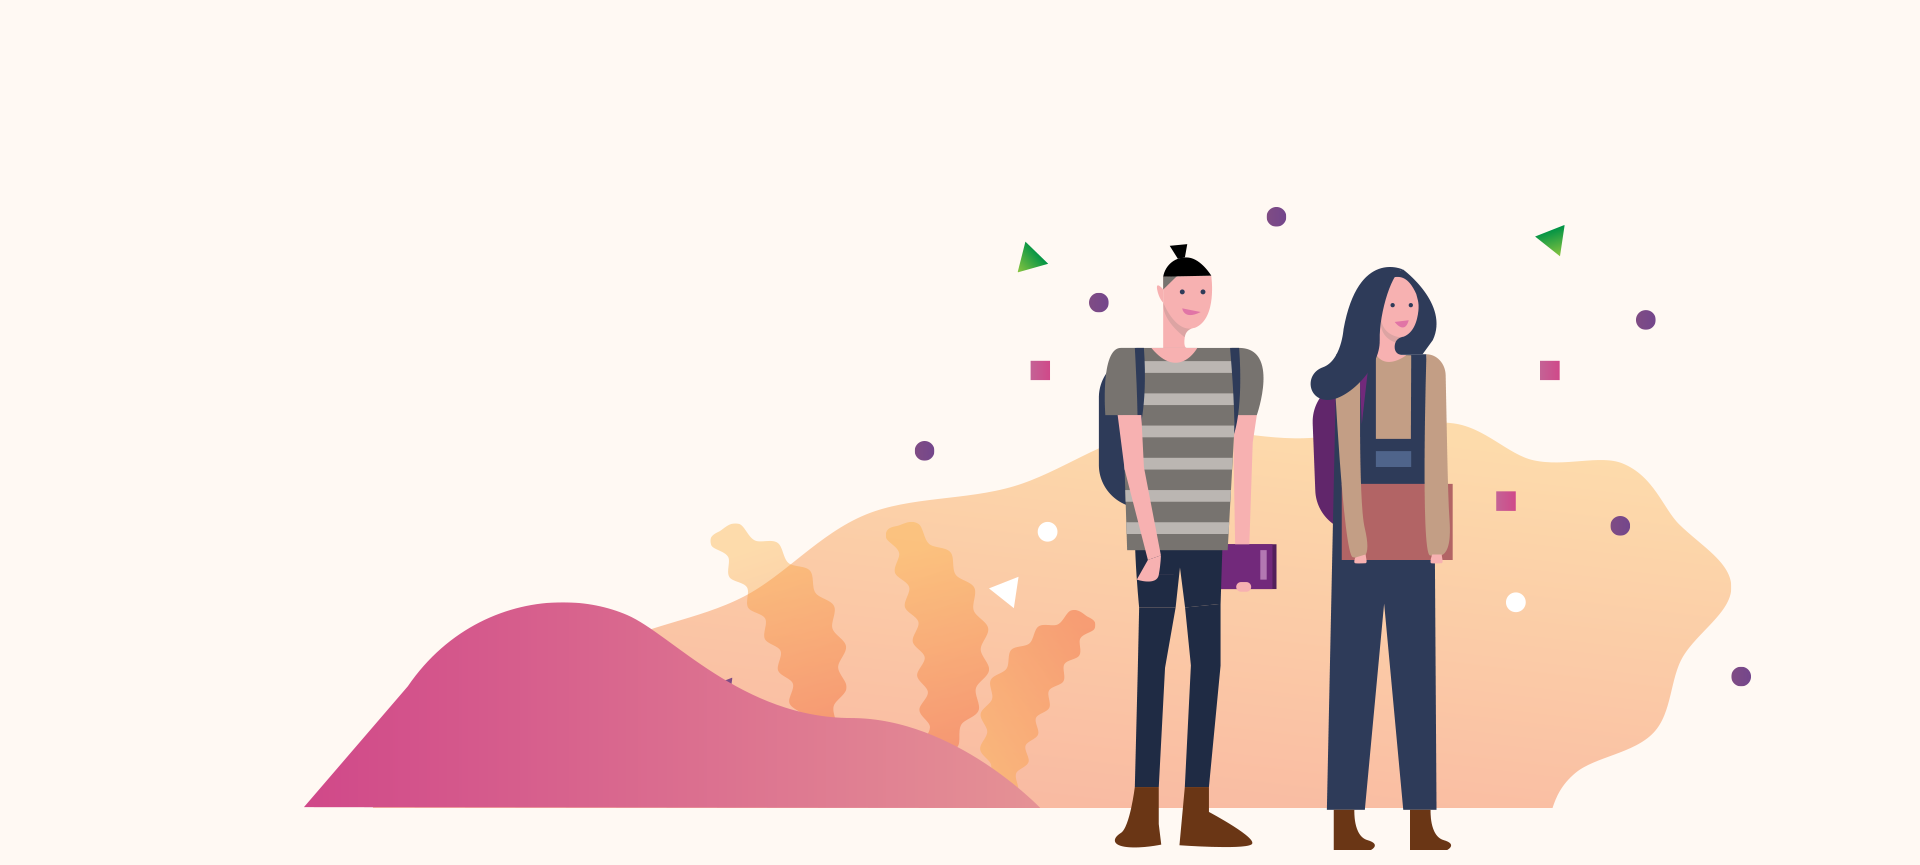
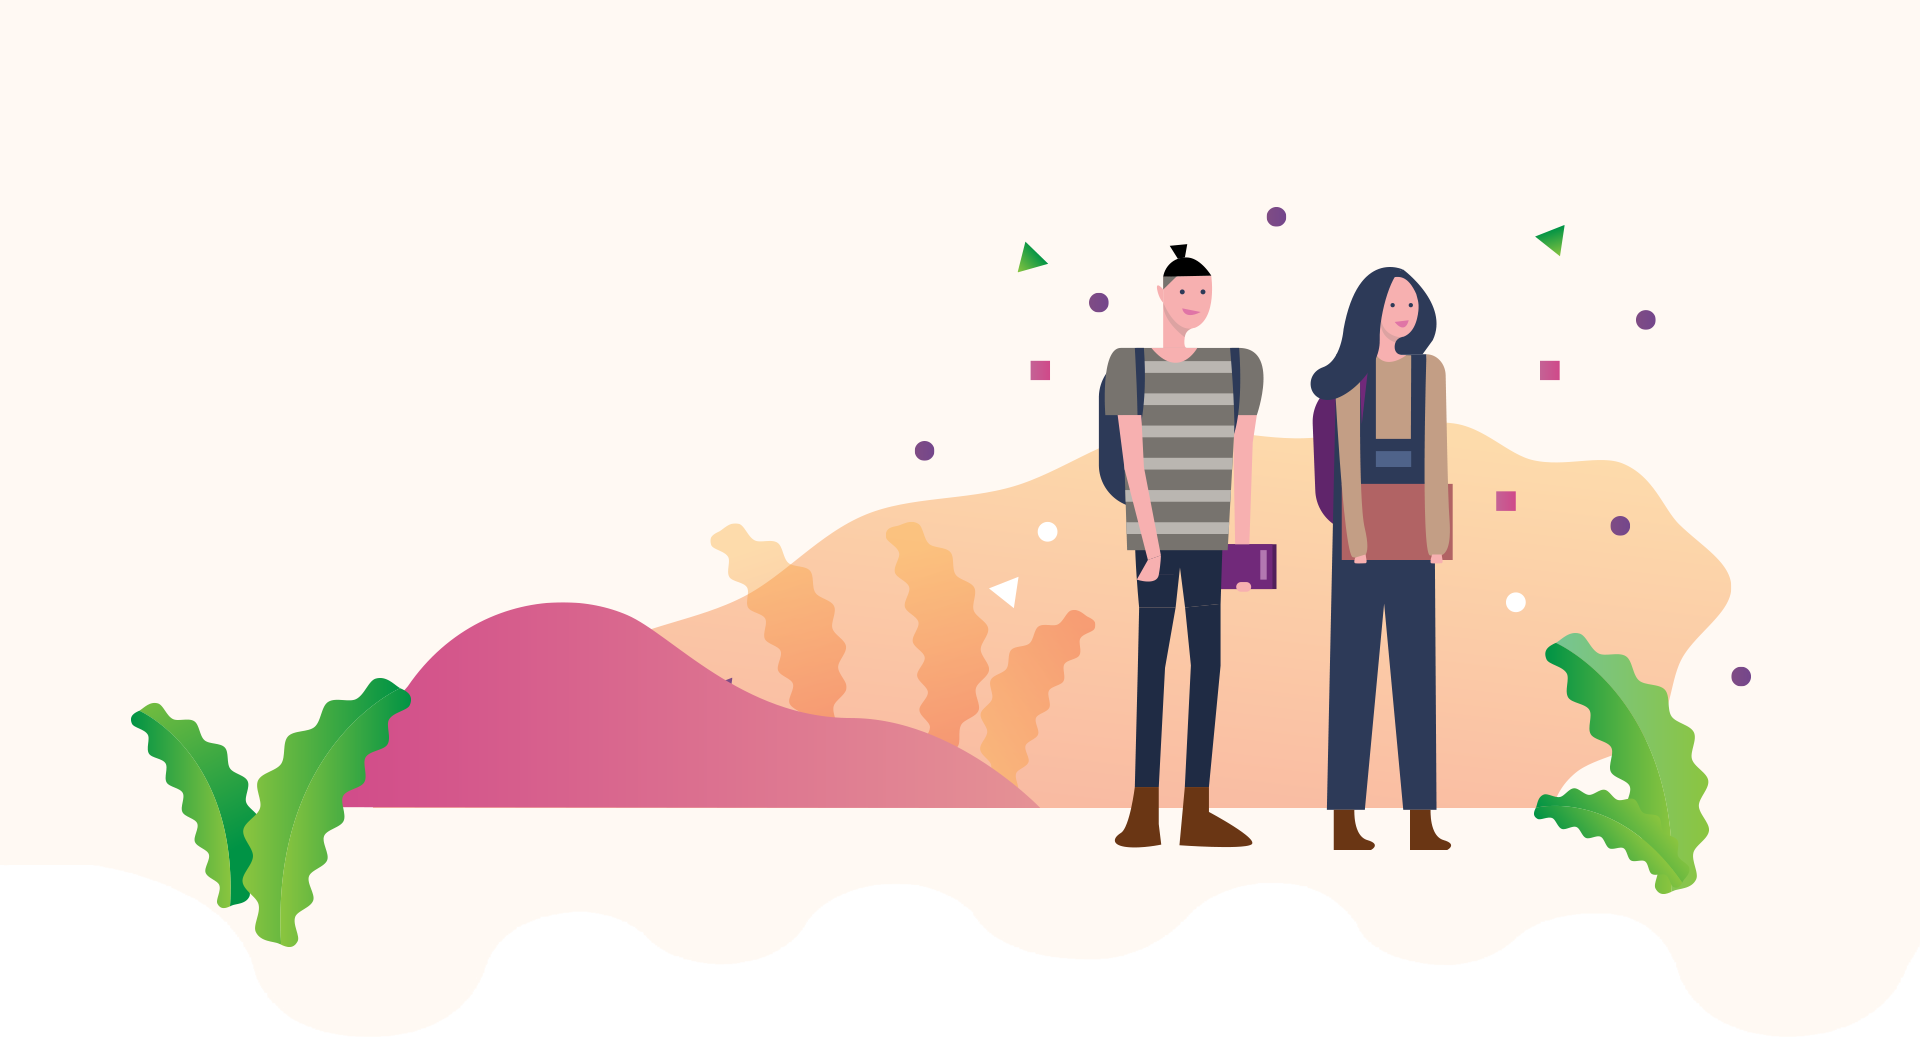
fixed some issues

diff --git a/css/style.css b/css/style.css
@@ -105,7 +105,7 @@ p{
 	background-size: cover;	
 	position: relative;
 }
-.header-area::after{
+/* .header-area::after{
 	position: absolute;
 	left: 0;
 	bottom: -5%;
@@ -115,8 +115,8 @@ p{
 	background: url(../images/home-2.png) no-repeat;
 	background-size: contain;
 	background-position: center;
-}
-.header-area::before{
+} */
+/* .header-area::before{
 	position: absolute;
 	right: 0;
 	bottom: -5%;
@@ -126,7 +126,7 @@ p{
 	background: url(../images/bg1.png) no-repeat;
 	background-size: contain;
 	background-position: center;
-}
+} */
 
 .mobile-nav{
 	display: none;
@@ -182,10 +182,10 @@ p{
 /*Department area Start*/
 
 #lms-dept-area{
-	padding-top: 160px;
-	background: url(../images/home-5.png) no-repeat;
+	/* padding-top: 160px; */
+	/* background: url(../images/home-5.png) no-repeat;
 	background-size: contain;
-	background-position: top;
+	background-position: top; */
 }
 .section-title{
 	text-align: center;
@@ -275,7 +275,7 @@ p{
 	border:10px solid #fdf6ee;
 }
 	
-	.play-icon{
+.play-icon{
 	height: 100px;
 	width: 100px;
 	border-radius: 50%;
@@ -308,12 +308,18 @@ p{
 /*lerning-area section end*/
 /*University section Start*/
 #lms-university-area{
+	/* padding-top: 135px;
+	padding-bottom: 105px; */
+	/* position: relative; */
 	padding-top: 135px;
-	padding-bottom: 105px;
-	position: relative;
-	z-index: 8;
+	z-index: 0;
+	width: 100%;
+    background: url(../images/bgp.png) bottom right no-repeat;
+    background-size: 31%;
+    /* /* margin-top: -170px; */
+    padding-bottom: 60px;
 }
-#lms-university-area::after{
+/* #lms-university-area::after{
 	background: url(../images/bgp.png)0 0 no-repeat;
 	background-position: center;
 	background-size: contain;
@@ -323,10 +329,10 @@ p{
     width: 435px;
     height: 900px;	
     position:absolute;
-}
+} */
 .versity-title{
 	text-align: center;
-	padding-bottom: 100px;
+	padding-bottom: 70px;
 }
 .versity-content{
 	padding:15px 0;
@@ -336,6 +342,7 @@ p{
 .content-area{
 	padding: 20px 10px 15px 26px;
 	box-shadow: 0 11px 21px #d4d8e4;
+	background: #fff;
 }
 .content-area p{
 	padding-bottom: 35px;

diff --git a/css/responsive.css b/css/responsive.css
@@ -109,6 +109,9 @@
 	.dept-single{
 		margin-top: 15px;
 	}
+	.versity-content img {
+		width: 100%;
+	}
 }
 @media screen and (max-width: 480px){
 	.col-3{
@@ -148,6 +151,7 @@
 	}
 	.section-title p{
 		padding-bottom:25px;
+		width: 100%;
 	}
 	.dept-single{
 		margin-top: 20px;
@@ -165,6 +169,9 @@
 		 width: 300px;
 		 height: 300px
 	}	
+	.versity-content {
+		margin-bottom: 20px;
+	}
 	#lms-lerning-area::before{
 		display: none;
 	}
